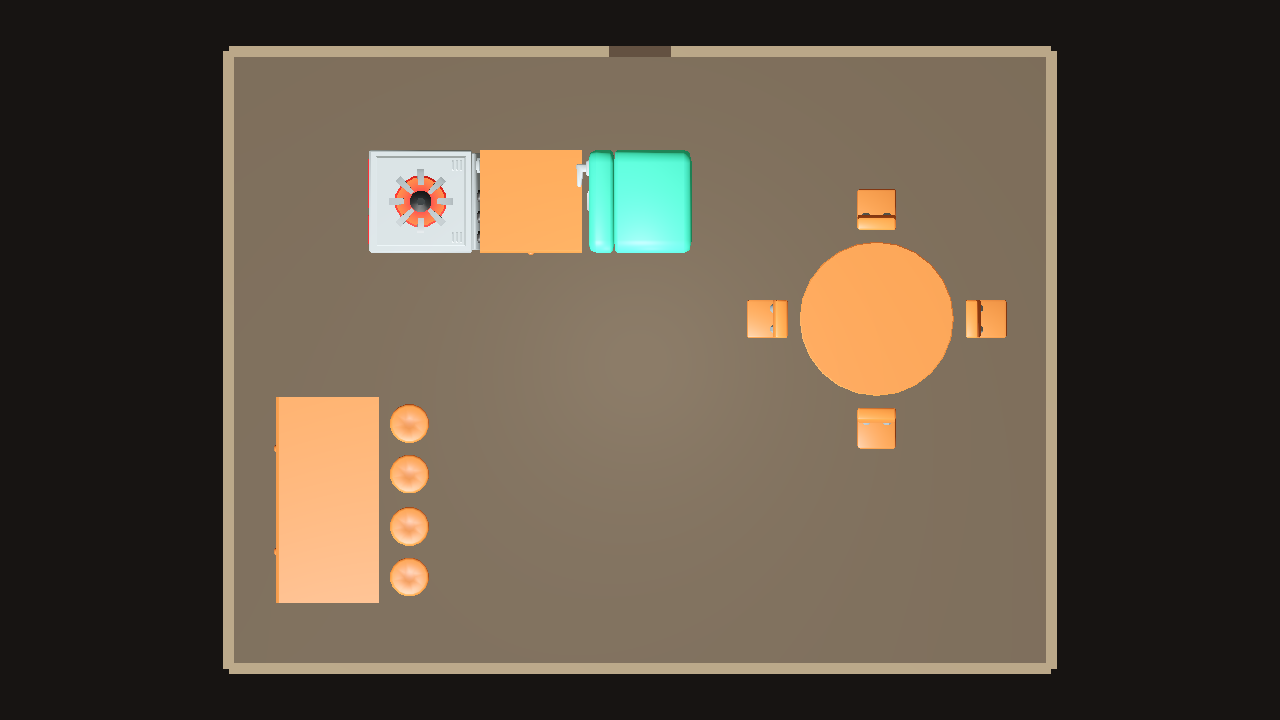
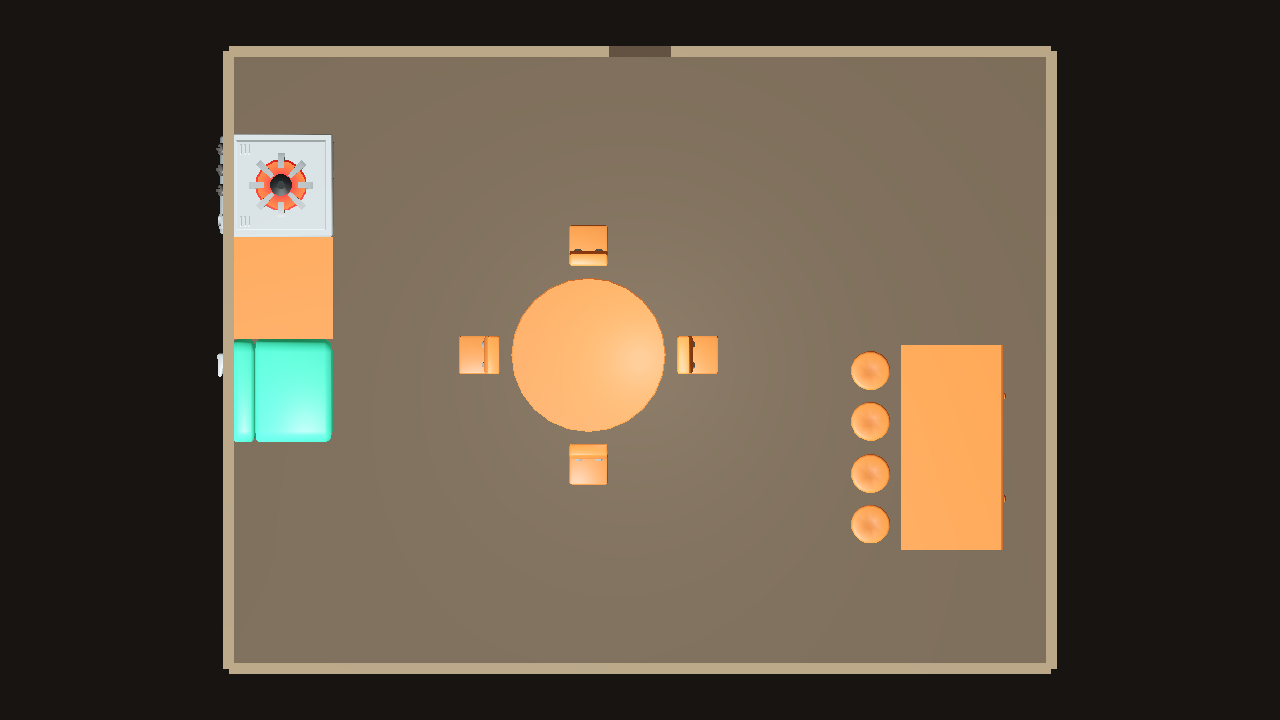
Correct kitchen fronts and document entrance limit

Changed region(s): [[0.1562, 0.1833, 0.8125, 0.8556]]

diff --git a/experiments/layout_solvers/fittingplacer/README.md b/experiments/layout_solvers/fittingplacer/README.md
@@ -1,10 +1,10 @@
 # FittingPlacer tavern experiment (LAY-01 / Issue #24, LAY-01B / Issue #28)
 
-## LAY-01B result: GO for the tested two-seed layout gate
+## LAY-01B result: PARTIAL for the tested two-seed layout gate
 
-The unchanged pinned FittingPlacer solver produced all 14 requested pieces for seeds 4242 and 8675309 from the same XML rules. The kitchen topology is a counter with distinct left and right support faces; the stove and refrigerator attach independently to those faces. The bar sections are authored 0.9 m from the west wall, and reserve the same 0.9 m behind them. The exported positions confirm this is a physical gap: the west wall is at x = -8 m, the bar back edge at x = -7.1 m, leaving 0.9 m of floor between them.
+The unchanged pinned FittingPlacer solver produced all 14 requested pieces for seeds 4242 and 8675309 from the same XML rules. The kitchen topology is a counter with distinct left and right support faces; the stove RIGHT and refrigerator LEFT faces attach independently to those sides. Godot confirms both working fronts face the same side of the contiguous row. The bar sections keep a 0.9 m physical gap from the wall they attach to and reserve the same 0.9 m behind them.
 
-Godot 4.7.1 renders the actual KayKit glTF assets at the exported transforms. Top-down, south-entrance, and kitchen eye-level captures are included for each seed below. The kitchen screenshots show the stove and refrigerator fronts facing the open work aisle. The south entrance view shows open access into the room and between dining and kitchen/bar areas. Route connectivity is a visual observation, not a solver guarantee.
+Godot 4.7.1 renders the actual KayKit glTF assets at the solver-exported transforms. Top-down, south-entrance, and kitchen eye-level captures are included for each seed below. The entrance composition remains weak: seed 4242 puts the kitchen beside the south entry; seed 8675309 puts it against the west wall. The fridge occupies a large part of the entrance view. FittingPlacer's XML wall relation selects a generic room wall and cannot target a wall opposite the entrance or define a no-furniture entrance sightline. The 1.2 m door opening itself remains free, but reasonable visual composition is not guaranteed. This gate is therefore **PARTIAL**, not GO.
 
 ### Seed 4242
 
@@ -21,16 +21,19 @@ Godot 4.7.1 renders the actual KayKit glTF assets at the exported transforms. To
 ### Encoded relationships and limitations
 
 - **Encoded:** bar sections join end-to-end; the bar back face is 0.9 m from a room wall; a 0.9 m back clearance reserves the staff aisle; stools attach to the customer face.
-- **Encoded:** the counter's left and right faces have distinct support types; stove and fridge each attach to one side. Each appliance retains a 0.8 m front clearance.
+- **Encoded:** the counter's left and right faces have distinct support types; the stove RIGHT and fridge LEFT faces each attach to one side. Each appliance retains a 0.8 m front clearance.
+- **Encoded:** the kitchen counter is attached to a generic room wall to test whether a wall anchor improves the entrance composition. The solver may select any wall.
 - **Encoded:** four chairs attach to four table edges and face inward; the south door opening remains reserved.
-- **Observed in Godot:** both kitchen appliances face outward to the shared open aisle; bar wall gap, stools, entrance, dining arrangement and broad route are visually clear in both seeded layouts.
+- **Observed in Godot:** both kitchen appliance fronts face the same accessible side of the shared row; the bar wall gap, customer stools and dining arrangement remain coherent in both layouts.
+- **Not achieved:** an entrance composition clear of the kitchen/fridge in both seeds. Generic wall attachment does not constrain the kitchen to a particular wall or zone; seed 4242 places it along the south entry side.
 - **Not guaranteed:** global route connectivity or navigation; no pathfinder or runtime character movement test is included.
 
 ### PASS / FAIL / NOT_TESTED
 
 - **PASS** — unchanged pinned upstream solver generated 14/14 placements for seeds 4242 and 8675309 using identical XML semantics.
 - **PASS** — exported bar footprint leaves exactly 0.9 m between its back edge and west wall; its 0.9 m clearance strip reserves that usable space.
-- **PASS (visual)** — both Godot layouts show a stove-counter-fridge row with appliance fronts facing the open aisle, customer-side stools, and the intact round table with four inward-facing chairs.
+- **PASS (visual)** — both Godot layouts show the contiguous stove-counter-fridge row with appliance fronts facing the same accessible aisle, customer-side stools, and the intact round table with four inward-facing chairs.
+- **PARTIAL** — entrance opening is physically unoccupied, but entrance composition is poor for both seeds; FittingPlacer cannot target a particular wall or reserve an entrance sightline using this XML model.
 - **PASS** — six new Godot 4.7.1 captures (top-down, entrance, kitchen eye-level per seed).
 - **NOT_TESTED** — runtime walkability/path connectivity; the isolated preview has no player controller.
 
@@ -48,10 +51,10 @@ It does not infer relationships from KayKit meshes, choose tavern zones, identif
 
 | Group | Authored relationship | Generated result |
 | --- | --- | --- |
-| Bar | Section A right end attaches to section B left end at 0 m; A's back attaches 0.9 m from a wall; both sections have a distinct front/customer face and 0.9 m back clearance. | Both counter sections form one 4 m run parallel to the west wall, with a physical 0.9 m staff aisle. All four stools attach to the customer face. |
+| Bar | Section A right end attaches to section B left end at 0 m; A's back attaches 0.9 m from a wall; both sections have a distinct front/customer face and 0.9 m back clearance. | Both counter sections form one 4 m run parallel to the selected wall, with a physical 0.9 m staff aisle. All four stools attach to the customer face. |
 | Dining | Each chair's front face attaches 0.25 m from one of the round table's four typed edges. Chair width and side clearance limit the support edge capacity. | Four chairs, one on each side of the table, facing inward. |
-| Kitchen | Stove back attaches to the counter's left support face; fridge back attaches to its distinct right support face, both at 0 m. Each work front reserves 0.8 m clearance. | Stove, counter and refrigerator form a side-by-side row for both seeds; Godot captures show both appliance fronts facing away from the counter into open floor. |
-| Entrance | South door center `(0, -6)`, width `1.2 m`, inward normal `+Y`; the solver reserves its immediate opening area. | Furniture groups fit without occupying the doorway. The entrance view visually shows a clear aisle into the room. |
+| Kitchen | Stove right face attaches to the counter's left support face; fridge left face attaches to its distinct right support face, both at 0 m. Each work front reserves 0.8 m clearance. Counter back also has a generic wall relation. | Stove, counter and refrigerator form a contiguous row for both seeds; Godot captures show appliance fronts on the same working side. The generic wall relation selects different walls across seeds. |
+| Entrance | South door center `(0, -6)`, width `1.2 m`, inward normal `+Y`; the solver reserves its immediate opening area. | The doorway footprint itself is unoccupied, but the fridge dominates the initial eye-level view in both seeds; a generic wall relation cannot keep the kitchen away from the south entrance zone. |
 
 The JSON records each output as an `assetId`, `assetPath`, `translation` and `rotation`, plus the original solver X/Y/orientation for traceability. Godot maps solver `(x, y)` to world `(x, 0, z)` and maps the solver's positive quarter-turn to Godot's negative Y rotation. The loader does not move or rotate placements after reading JSON. Camera positions and static room shell geometry are preview-only.
 
@@ -84,7 +87,7 @@ The script obtains the pinned upstream solver into ignored `.local/FittingPlacer
 
 Godot's scene launch imports assets as needed; all six real OpenGL compatibility captures completed successfully.
 
-## PASS / FAIL / NOT_TESTED
+## LAY-01 historical verification (Issue #24)
 
 - **PASS** — Upstream solver source compiled unchanged and returned 14/14 placements in the 16 × 12 m room for seeds 4242 and 8675309.
 - **PASS** — Actual KayKit furniture rendered from each generated JSON in Godot 4.7.1; top-down, entrance and kitchen eye-level screenshots captured for both seeds.
@@ -93,6 +96,6 @@ Godot's scene launch imports assets as needed; all six real OpenGL compatibility
 - **NOT_TESTED** — Runtime character movement through the aisle, because the preview has no player/controller.
 - No live game systems or PR #16/#22 files were changed.
 
-**Conclusion:** FittingPlacer expresses the tested bar service gap and side-by-side kitchen topology using XML face relations and clearance rules. This is a standalone functional layout proof, not a global navigation guarantee.
+**Historical conclusion:** FittingPlacer expressed the original relative furniture groups for seed 4242. LAY-01B's additional kitchen-front and entrance-composition findings are recorded above; this standalone preview does not provide a global navigation guarantee.
 
 Closes #24 (original LAY-01 proof; LAY-01B is tracked by Issue #28)
